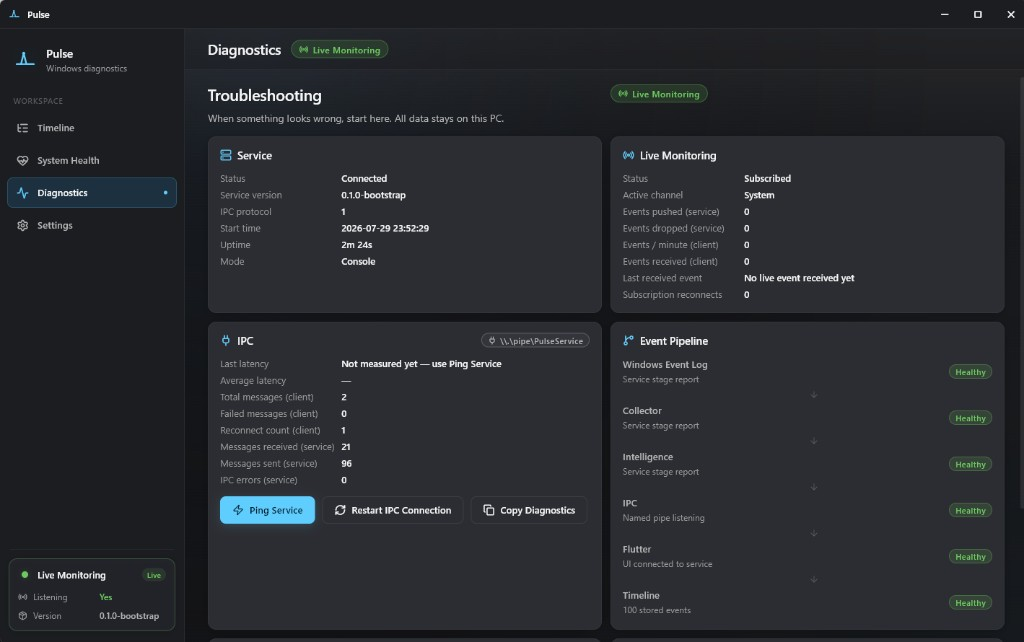
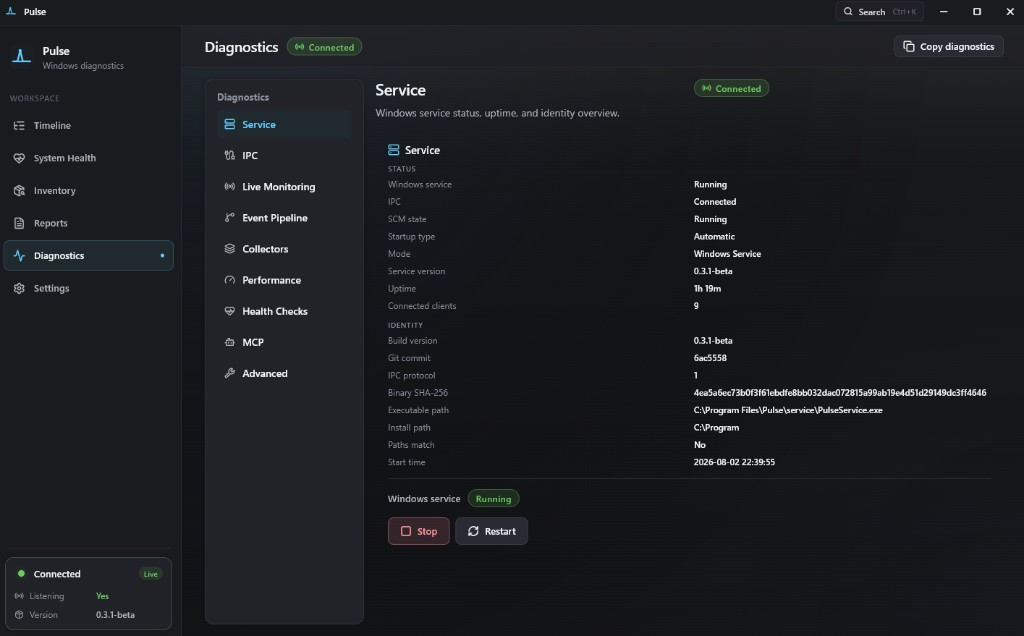
docs: refresh README screenshots and product overview
Replace gallery images with current UI and document Inventory, Reports, and MCP.

diff --git a/README.md b/README.md
@@ -57,22 +57,36 @@ Designed to feel like a built-in Windows 11 utility (Fluent Design, Mica, dark-f
 - **Human-readable events** — Level 1 plain language first; technical summary and raw XML on demand
 - **Live monitoring** — Windows Event Log via `EvtSubscribe`, pushed over named-pipe IPC
 - **Historical snapshot** — recent events on connect, then live prepend as Windows works
+- **Search & filters** — severity, source, category, provider, process, and date presets (including last 15 minutes)
 - **Detail panel** — metadata, process context, and expandable raw event payload
-- **Auto-scroll & filters** — stay on the live edge or browse calmly
+- **Incidents & export** — correlated groups plus JSON/CSV export of the session
 
 ### System Health
-- **CPU, Memory, GPU, Disk, Network** — live cards aligned with Task Manager methodology where APIs allow
+- **CPU, Memory, GPU, Disk, Network** — live cards and 60-second sparklines
 - **PDH Processor Utility** — frequency-aware CPU % (not just classic Processor Time)
-- **Process list** — memory, CPU, disk I/O, and network per process with app icons
+- **Hardware summary** — OS, CPU, GPU, memory, uptime at a glance
 - **Graceful offline mode** — clear empty states when PulseService is not running
 
+### Inventory
+- **System** — motherboard, BIOS, CPU, memory, storage, network, battery (SMBIOS / SetupAPI where available)
+- **Devices** — USB, PCI, displays, audio, Bluetooth, printers
+- **Software** — installed programs, drivers, and Windows services
+- **Copy & export** — field-level copy plus inventory reports
+
+### Reports
+- **Templates** — System Health, Timeline, Diagnostics, and inventory catalogs
+- **Formats** — JSON, CSV, HTML, PDF
+- **Local export** — writes under Documents / Pulse / exports by default
+
 ### Diagnostics
-- **Service snapshot** — uptime, queue depth, IPC stats, pipeline health
-- **Inject test event** — verify the full collector → IPC → Timeline path
-- **Export report** — zip diagnostics for support without leaving the machine
+- **Service snapshot** — SCM state, uptime, identity, binary path, connected clients
+- **IPC & pipeline** — named-pipe health, collectors, performance budgets
+- **MCP status** — PulseMCP bridge metrics when AI Integration is enabled
+- **Copy diagnostics** — support bundle without leaving the machine
 
 ### Settings
-- Live monitoring, auto-scroll, compact density, animations
+- General, Appearance, System Health, Timeline, Diagnostics, Performance, Privacy
+- **AI Integration** — opt-in PulseMCP registration for Cursor / Claude Desktop
 - Preferences persist locally (`SharedPreferences`) — no account, no sync
 
 ### Product principles
@@ -98,6 +112,17 @@ Designed to feel like a built-in Windows 11 utility (Fluent Design, Mica, dark-f
 </p>
 
 <p align="center">
+  <img src="docs/readme/inventory.png" alt="Inventory" width="48%" />
+  &nbsp;
+  <img src="docs/readme/reports.png" alt="Reports" width="48%" />
+</p>
+
+<p align="center">
+  <strong>Inventory</strong> — hardware & software catalog &nbsp;·&nbsp;
+  <strong>Reports</strong> — local JSON / CSV / HTML / PDF export
+</p>
+
+<p align="center">
   <img src="docs/readme/diagnostics.png" alt="Diagnostics" width="48%" />
   &nbsp;
   <img src="docs/readme/settings.png" alt="Settings" width="48%" />
@@ -105,7 +130,7 @@ Designed to feel like a built-in Windows 11 utility (Fluent Design, Mica, dark-f
 
 <p align="center">
   <strong>Diagnostics</strong> — service, IPC, pipeline &nbsp;·&nbsp;
-  <strong>Settings</strong> — local preferences, no cloud
+  <strong>Settings</strong> — local preferences &amp; AI Integration
 </p>
 
 ---
@@ -120,13 +145,13 @@ Designed to feel like a built-in Windows 11 utility (Fluent Design, Mica, dark-f
                              │ read-only APIs
 ┌────────────────────────────▼─────────────────────────────┐
 │                      PulseService                        │
-│  Collector · Humanizer · Health metrics · IPC server     │
+│  Collector · Humanizer · Health · Inventory · IPC server │
 │              (native C++ Windows service)                │
 └────────────────────────────┬─────────────────────────────┘
                              │ named pipe (framed binary)
 ┌────────────────────────────▼─────────────────────────────┐
 │                       Pulse App                          │
-│         Flutter Desktop · Timeline · Health UI           │
+│   Flutter · Timeline · Health · Inventory · Reports      │
 └──────────────────────────────────────────────────────────┘
 ```
 
@@ -135,6 +160,8 @@ Designed to feel like a built-in Windows 11 utility (Fluent Design, Mica, dark-f
 ```
 Windows Event Log → Collector → Humanizer → IPC → Timeline UI
 ```
+
+PulseService is required (installer or elevated `--install-start`). A ZIP payload is not a true portable edition — see [portable vs service](docs/architecture/40-portable-vs-service.md).
 
 ETW, WMI, and plugins are intentional future milestones — see [docs/architecture](docs/architecture/README.md).
 
@@ -200,6 +227,7 @@ Pulse ships **PulseMCP** — a read-only Model Context Protocol server for Curso
 
 - Enable in **Settings → AI Integration** (opt-in policy file)
 - One-click **Register** for Cursor (global `~\.cursor\mcp.json`) with backup + safe merge
+- Bundled private Node runtime — no system Node.js required
 - Diagnostics → **MCP** for live status metrics
 - Guides: [AI Integration](docs/guides/ai-integration.md) · [Installation](docs/guides/installation.md) · [Troubleshooting](docs/guides/troubleshooting.md) · [Security](docs/guides/security.md)
 
@@ -215,7 +243,7 @@ Pulse ships **PulseMCP** — a read-only Model Context Protocol server for Curso
 | `.\build\service\pulse_wire_tests.exe` | Wire codec unit tests |
 | `.\tools\scripts\run_ipc_ping.ps1` | IPC Ping/Pong smoke |
 | `.\tools\scripts\run_diagnostics_ping.ps1` | Diagnostics + inject-event smoke |
-| `.\tools\scripts\package_beta.ps1` | Build portable beta zip (Flutter Release + PulseService) |
+| `.\tools\scripts\package_beta.ps1` | Build beta installer + payload (`dist\`) |
 | `cd apps\pulse_app; flutter test` | Flutter unit / widget tests |
 
 ---
@@ -225,10 +253,11 @@ Pulse ships **PulseMCP** — a read-only Model Context Protocol server for Curso
 | Layer | Stack |
 |---|---|
 | **UI** | Flutter Desktop · Provider · window_manager · flutter_acrylic · Lucide icons |
-| **Service** | C++20 · CMake · Win32 · Wevtapi · PDH · DXGI · IP Helper |
+| **Service** | C++20 · CMake · Win32 · Wevtapi · PDH · DXGI · IP Helper · SetupAPI / SMBIOS |
 | **IPC** | Named pipes · framed binary protocol (`pulse_wire`) · shared Dart/C++ codec |
-| **Protocol** | `shared/pulse_protocol` (C++ + Dart) · Protobuf schema for future evolution |
-| **Persistence (app)** | SharedPreferences for settings · local diagnostics export (zip) |
+| **Protocol** | `shared/pulse_protocol` (C++ + Dart) · Protobuf schema for FastMCP tools |
+| **AI** | PulseMCP (Node) — read-only tools/resources over the same named pipe |
+| **Persistence (app)** | SharedPreferences for settings · local reports & diagnostics export |
 | **CI** | GitHub Actions — Windows service build/tests + Flutter analyze/test |
 
 ---
@@ -237,15 +266,17 @@ Pulse ships **PulseMCP** — a read-only Model Context Protocol server for Curso
 
 ```
 Pulse/
-├── apps/pulse_app/          Flutter Desktop UI (Timeline, Health, Diagnostics, Settings)
+├── apps/pulse_app/          Flutter Desktop UI (Timeline, Health, Inventory, Reports, …)
 ├── service/pulse_service/   Native Windows service (collector, humanizer, health, IPC)
+├── apps/pulse_mcp/          PulseMCP bridge (private Node runtime)
 ├── shared/
 │   ├── pulse_common/        Version, errors, constants
 │   └── pulse_protocol/      Wire codec (C++ + Dart) + proto
 ├── tools/
 │   ├── ipc_ping/            Smoke clients (IPC / health / diagnostics)
-│   └── scripts/             Dev launch helpers
+│   └── scripts/             Dev launch + packaging helpers
 ├── docs/architecture/       ADRs + system design (source of truth)
+├── docs/readme/             README screenshots
 ├── branding/                Logo source (Telemetry Peak)
 ├── tests/                   Fixtures / integration (expanding)
 ├── AGENTS.md                Product constitution
@@ -260,14 +291,16 @@ Pulse/
 - [x] Event Log collector → humanized Timeline
 - [x] Live monitoring with page-visibility pause
 - [x] System Health (Task Manager–aligned metrics)
-- [x] Diagnostics page + export report
-- [x] Settings persistence
+- [x] Inventory (system, devices, software)
+- [x] Reports (JSON / CSV / HTML / PDF)
+- [x] Diagnostics page + local export
+- [x] Settings persistence + AI Integration (PulseMCP)
 - [x] Fluent dark-first UI polish
 - [x] Official screenshots in README
 - [x] First-launch welcome (skippable)
-- [x] Timeline search, severity/source filters, JSON export
-- [x] Portable beta package script (`package_beta.ps1`)
-- [ ] Packaged MSI/Inno installer + GitHub Releases auto-update
+- [x] Timeline search, filters, date presets, session export
+- [x] Beta installer (`package_beta.ps1` → Inno Setup)
+- [ ] GitHub Releases auto-update
 - [ ] Crash / WER timeline
 - [ ] ETW engine (future milestone)
 - [ ] Plugin system (future milestone)
@@ -281,7 +314,7 @@ Every feature should answer one question: **"What is Windows doing right now?"**
 
 - **No cloud, no login, no account**
 - **No telemetry, analytics, or tracking**
-- Data never leaves the machine unless **you** export a diagnostics zip
+- Data never leaves the machine unless **you** export a report or diagnostics zip
 - Uses **official Windows APIs** only
 - Never injects into processes, never hooks, never bypasses security
 - Elevation only when **you** explicitly install the service
@@ -295,6 +328,7 @@ Every feature should answer one question: **"What is Windows doing right now?"**
 | [AGENTS.md](AGENTS.md) | Product vision, principles, AI / development rules |
 | [docs/architecture/README.md](docs/architecture/README.md) | Full architecture package + ADRs |
 | [docs/architecture/24-health-metrics-task-manager.md](docs/architecture/24-health-metrics-task-manager.md) | Health metrics vs Task Manager |
+| [docs/guides/ai-integration.md](docs/guides/ai-integration.md) | PulseMCP setup |
 | [BUILD.md](BUILD.md) | Prerequisites & build |
 | [DEVELOPMENT.md](DEVELOPMENT.md) | Local workflow |
 | [IMPLEMENTATION_GUIDE.md](IMPLEMENTATION_GUIDE.md) | Implementation notes |
